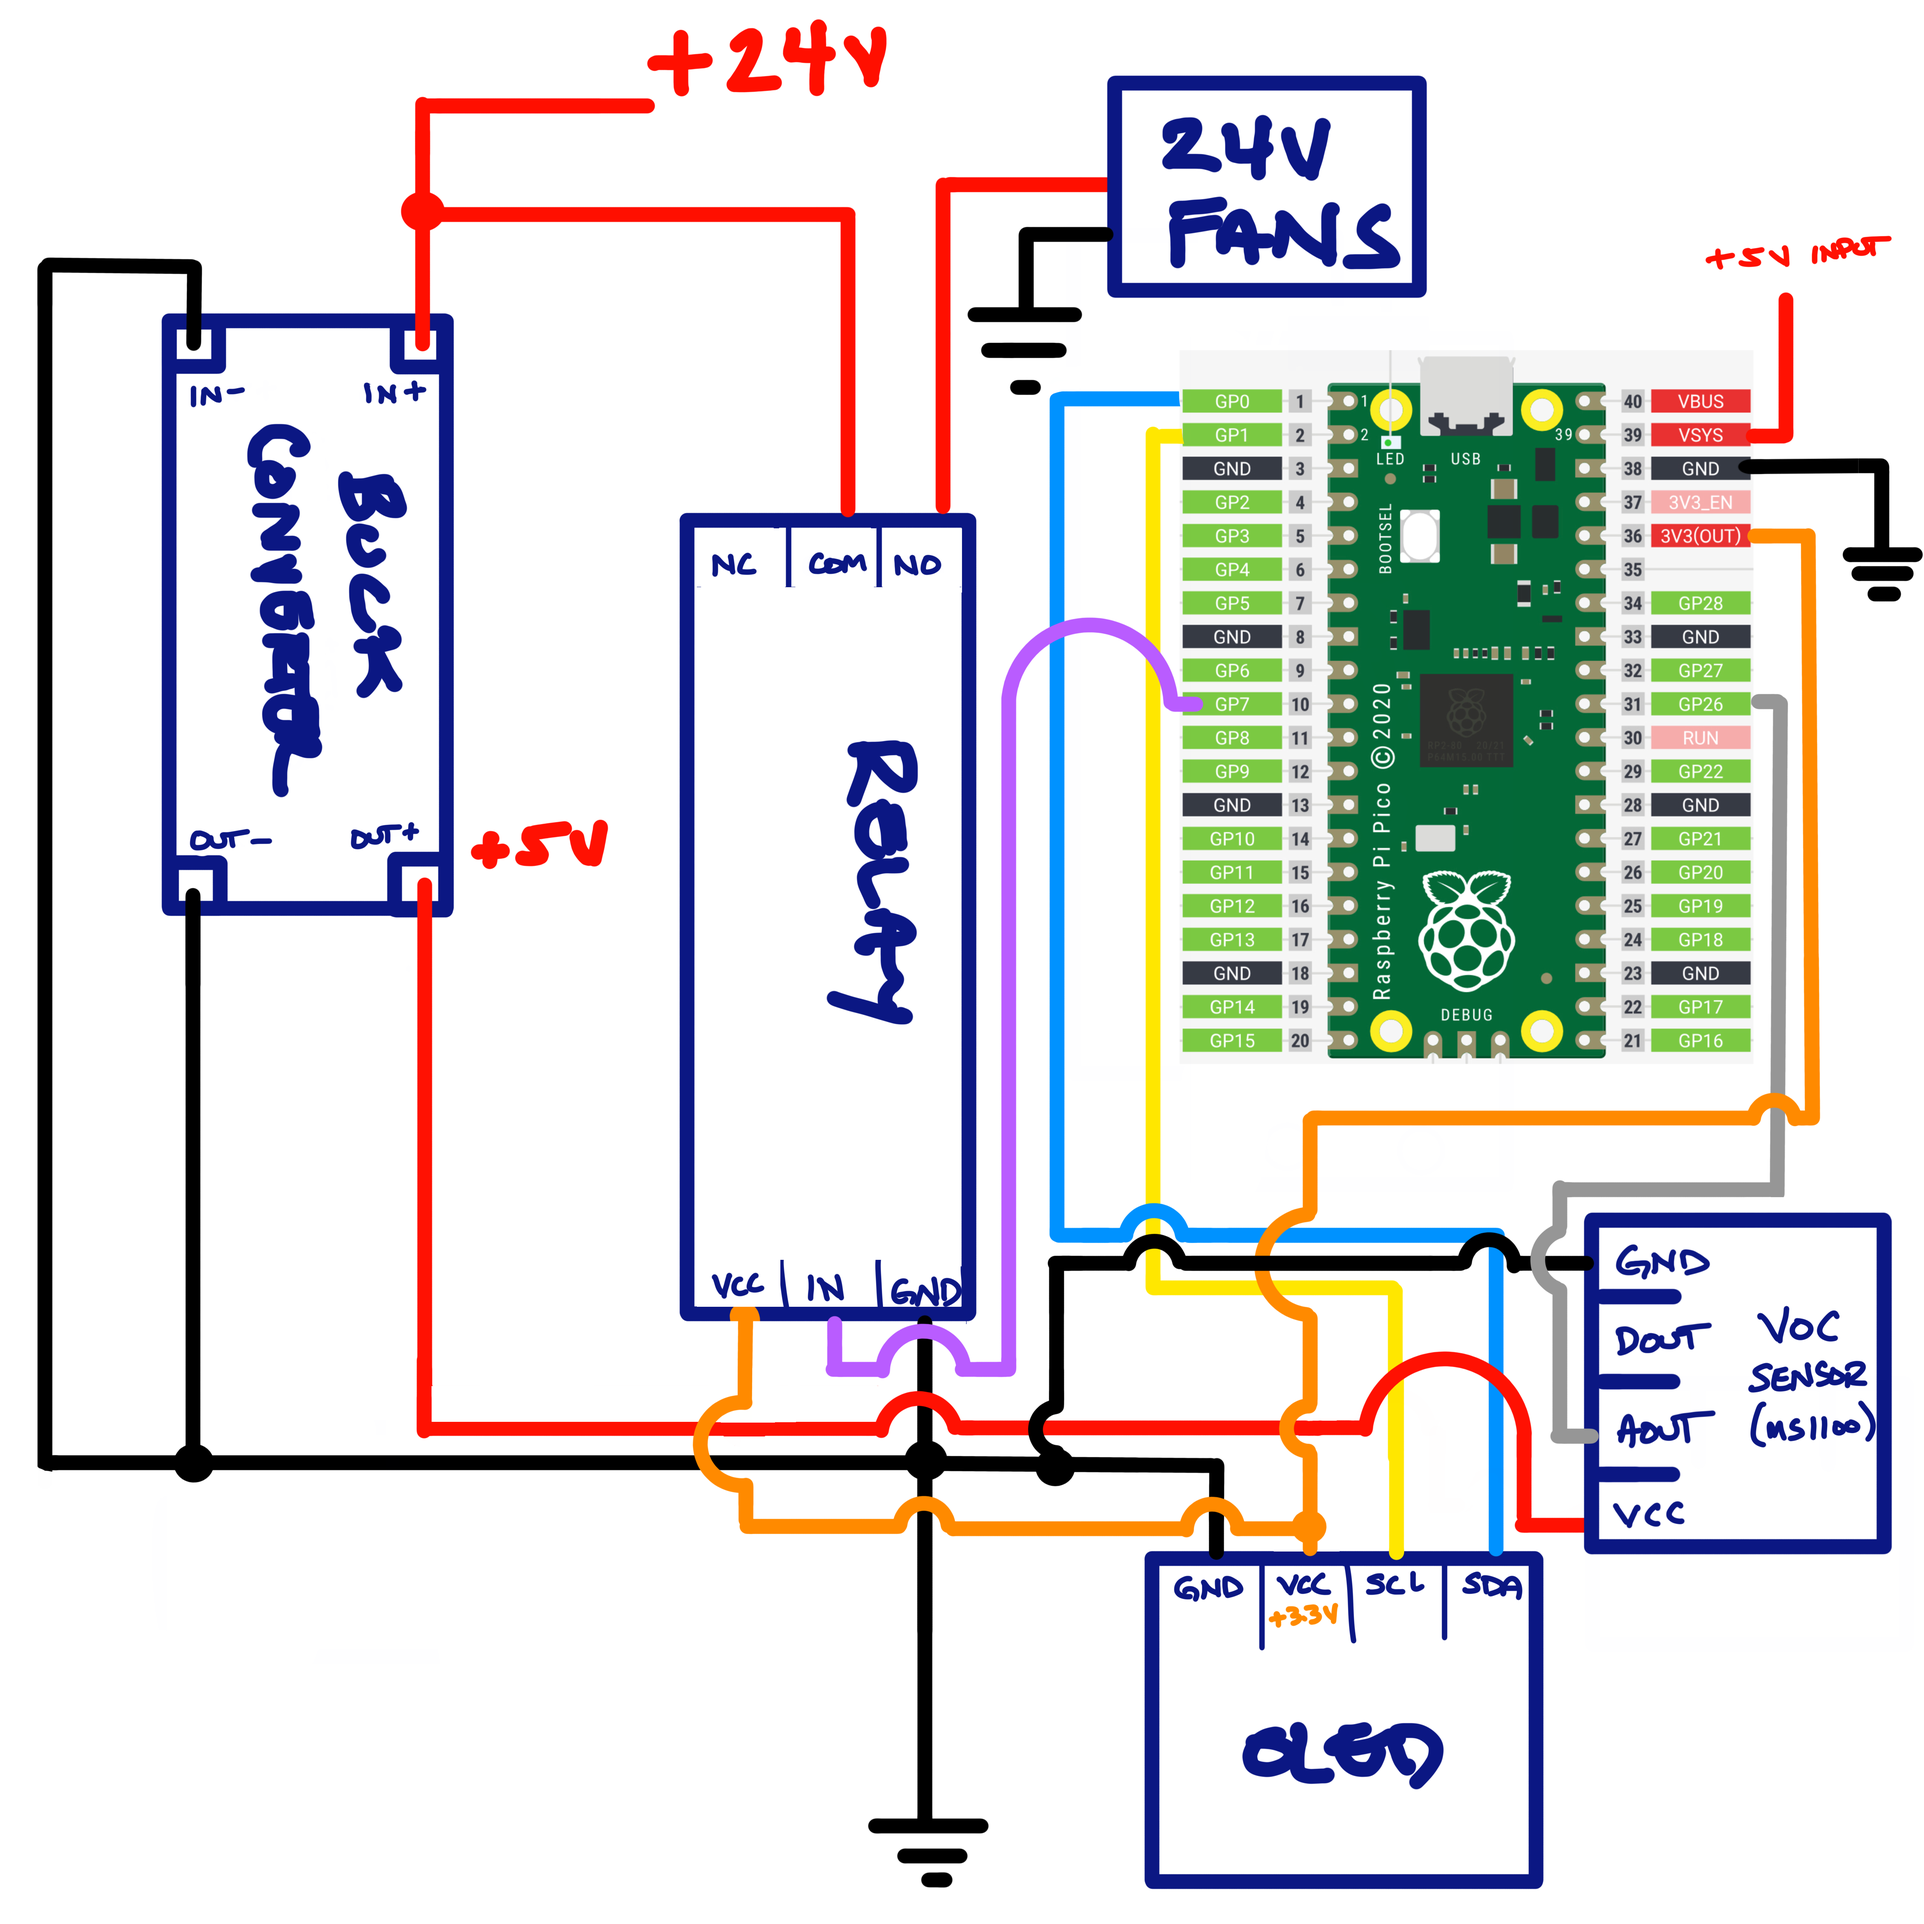
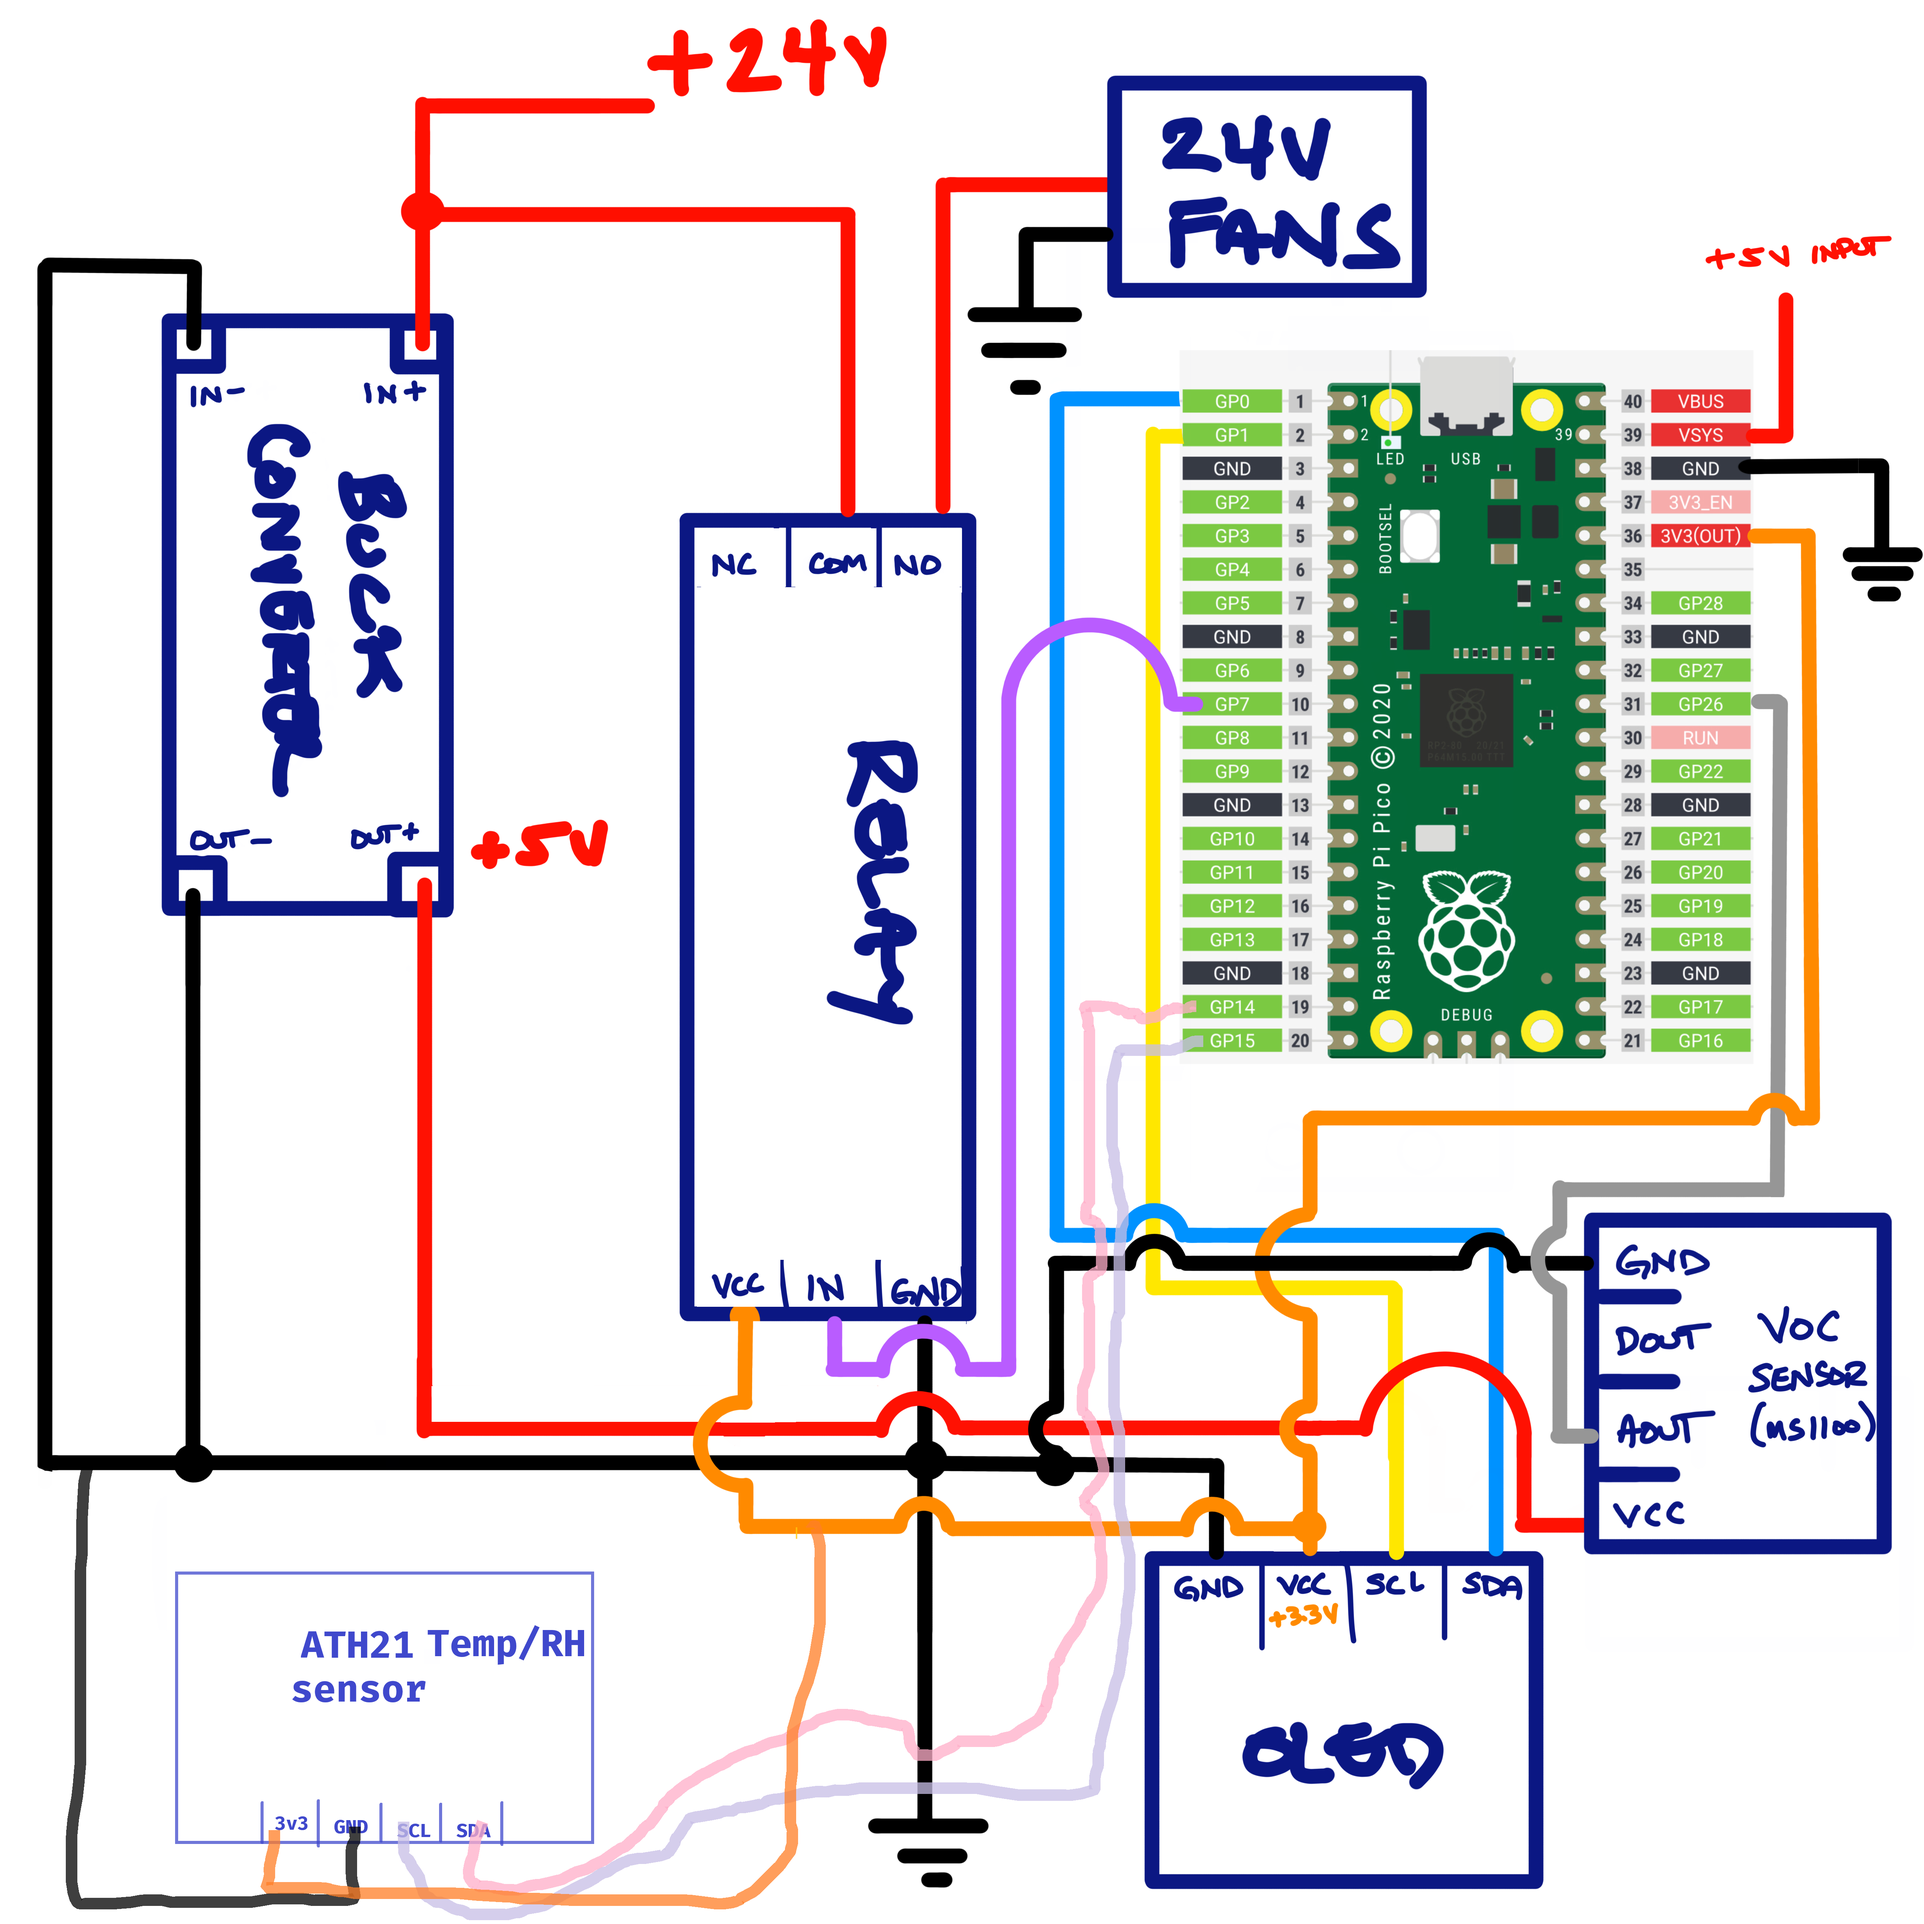
chore: documentation update

Changed region(s): [[0.0312, 0.4992, 0.624, 0.9984], [0.156, 0.8424, 0.312, 0.9048]]

diff --git a/README.md b/README.md
@@ -45,7 +45,17 @@ Do your best to avoid inhaling the flux/solder fumes
 Please read through the entire program to acclimate yourself with the functionality!
 Pin definitions can be easily changed at the top from those I chose to use.
 For those who haven't used Raspberry Pis for their own scripts, save “main.py” to your RPi Pico. When power is applied, this program will run automatically. 
- 
+
+For the program to run you need to also install some packages to the pico board as follow
+ - picozero
+ - ssd1306 (for the led screen)
+ - time
+ - typing_extensions
+ - micropython_ahtx0 (for the external temp sensor)
+
+ Recomended to use the [Thonny IDE](https://thonny.org/) for package management and connection to the pico
+
+ Before uploading the main.py you need to install the micropython firmware to the pico more details [MicroPython Downloads](https://micropython.org/download/) please select your model from the list.
 
 When I have a bit more time, I'll create a full write up with instructions on how to connect everything. Until then, feel free to ask me questions. Please note, however, that I may not be able to respond quickly.
 There are still some tweaks I'd like to make, so a revision may come at some point. I want to reduce the clutter in the electronics housing by utilizing integrated solutions or developing my own PCB with an RP2040 chip and on-board power handling.
